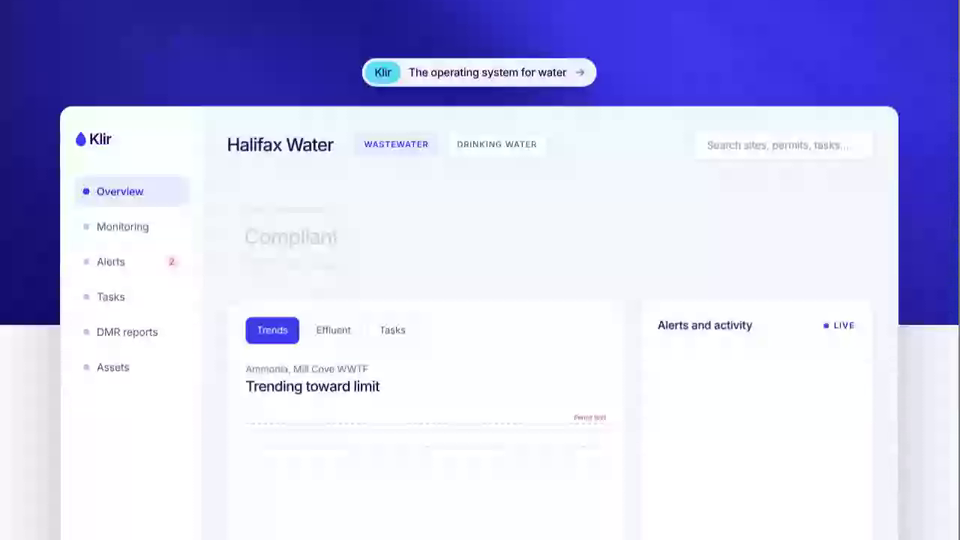
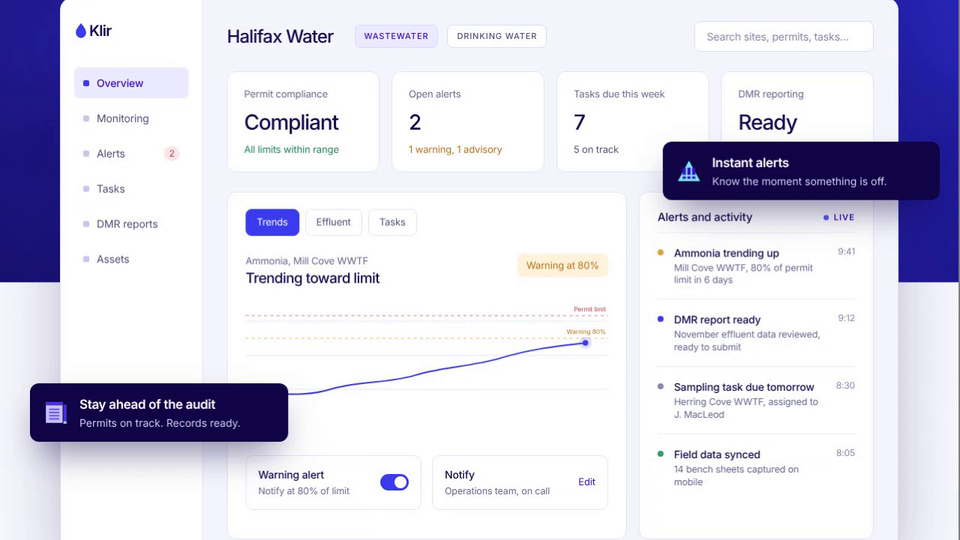
Klir Landing Page: clip starts on the finished dashboard; click animation shipped
Claude-Session: https://claude.ai/code/session_01AHeBdxxJMjuAF9w67sWwW5

diff --git a/tools/record-clips.js b/tools/record-clips.js
@@ -26,12 +26,12 @@ const domClick = (p, sel) => p.evaluate((s) => document.querySelector(s).click()
    Apps that move on their own just wait; the others are driven the way a visitor would use them. */
 const APPS = {
   // the Klir wayfinding line: the moving blue water hero, then the waterdrop appears, crosses the hero edge (white to blue) and travels down the page with the scroll, lighting up each section node, then back up
-  'klir-landing-page': { http: true, vp: [1280, 769], crop: [0, 49, 1280, 720], ready: 1200, run: async (p) => {
+  'klir-landing-page': { http: true, vp: [1280, 769], crop: [0, 49, 1280, 720], hash: '#clip', ready: 4200, run: async (p) => {
+    // the dashboard rises over the hero and fills in, the walkthrough clicks to the other tab, then the page scrolls on and returns to the dashboard
     const t0 = Date.now(), to = (y) => p.evaluate((v) => window.scrollTo({ top: v, behavior: 'smooth' }), y);
-    await at(t0, 800, () => to(500));
-    await at(t0, 2200, () => { p.mouse.move(640, 400); to(1500); });
-    await at(t0, 3600, () => to(2600));
-    await at(t0, 4800, () => to(0));
+    await at(t0, 2600, () => to(1500));
+    await at(t0, 3800, () => to(2600));
+    await at(t0, 5000, () => to(600));
   } },
   // the badge rests at its angle over the muted tiles, then the mouse sweeps over the visual to tip it and leaves so it eases back
   'lob-integrations-hero': { vp: [1280, 769], crop: [0, 49, 1280, 720], ready: 1200, run: async (p) => {

diff --git a/klir-landing-page/index.html b/klir-landing-page/index.html
@@ -397,6 +397,7 @@ const pt=tr.getPointAtLength(a),tx=Math.max(84,Math.min(556,pt.x));$('tip').setA
 cs.addEventListener('pointerleave',()=>$('tip').setAttribute('opacity',0));
 
 addEventListener('scroll',tick,{passive:true});addEventListener('resize',layout);
+if(location.hash=='#clip'){document.documentElement.style.scrollBehavior='auto';scrollTo(0,600)}
 (document.fonts?document.fonts.ready:Promise.resolve()).then(layout);layout();
 new ResizeObserver(layout).observe(wrap);
 /* gooey hover: the image is pulled toward the pointer like a liquid */
